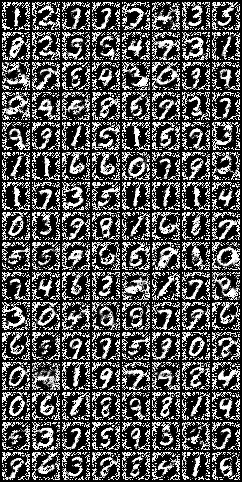
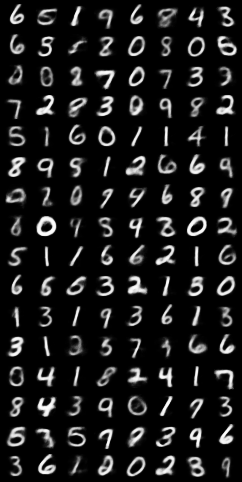
small fixes

diff --git a/dae/dae.py b/dae/dae.py
@@ -7,10 +7,11 @@ from dae.model import Model
 from dae.visualize import *
 
 class DAE():
-    def __init__(self, n_obs, num_epochs, batch_size, lr, shape):
+    def __init__(self, n_obs, num_epochs, batch_size, lr, save_iter, shape):
         self.num_epochs = num_epochs
         self.batch_size = batch_size
         self.lr = lr
+        self.save_iter = save_iter
         self.shape = shape
 
         self.dae = Model(n_obs)
@@ -39,9 +40,9 @@ class DAE():
                 loss.backward()
                 optimizer.step()
 
-            if epoch == 0 or epoch % 20 == 19:
+            if epoch == 0 or epoch % self.save_iter == self.save_iter - 1:
                 pic = out.data.view(out.size(0), 1, self.shape[0], self.shape[1])
-                save_image(pic, 'img/dae_' + str(epoch+1) + '_epochs.png')
+                save_image(pic, 'img/betaVae_' + str(epoch+1) + '_epochs.png')
 
             # plot loss
             update_viz(epoch, loss.item())

diff --git a/beta_vae/beta_vae.py b/beta_vae/beta_vae.py
@@ -7,11 +7,12 @@ from beta_vae.model import Model
 from beta_vae.visualize import *
 
 class BetaVAE():
-    def __init__(self, n_obs, num_epochs, batch_size, lr, beta, shape):
+    def __init__(self, n_obs, num_epochs, batch_size, lr, beta, save_iter, shape):
         self.num_epochs = num_epochs
         self.batch_size = batch_size
         self.lr = lr
         self.beta = beta
+        self.save_iter = save_iter
         self.shape = shape
 
         self.n_obs = n_obs
@@ -47,7 +48,7 @@ class BetaVAE():
                 loss.backward()
                 optimizer.step()
 
-            if epoch == 0 or epoch % 20 == 19:
+            if epoch == 0 or epoch % self.save_iter == self.save_iter - 1:
                 pic = out.data.view(out.size(0), 1, self.shape[0], self.shape[1])
                 save_image(pic, 'img/betaVae_' + str(epoch+1) + '_epochs.png')
 

diff --git a/train.py b/train.py
@@ -13,14 +13,14 @@ num_epochs = 100
 batch_size = 128
 lr = 1e-4
 beta = 4
-save_iter = 10
+save_iter = 20
 
 shape = (28, 28)
 n_obs = shape[0] * shape[1]
 
 # create DAE and ß-VAE and their training history
-dae = DAE(n_obs, num_epochs, batch_size, 1e-3, shape)
-beta_vae = BetaVAE(n_obs, num_epochs, batch_size, 1e-4, beta, shape)
+dae = DAE(n_obs, num_epochs, batch_size, 1e-3, save_iter, shape)
+beta_vae = BetaVAE(n_obs, num_epochs, batch_size, 1e-4, beta, save_iter, shape)
 history = History()
 
 # fill autoencoder training history with examples
